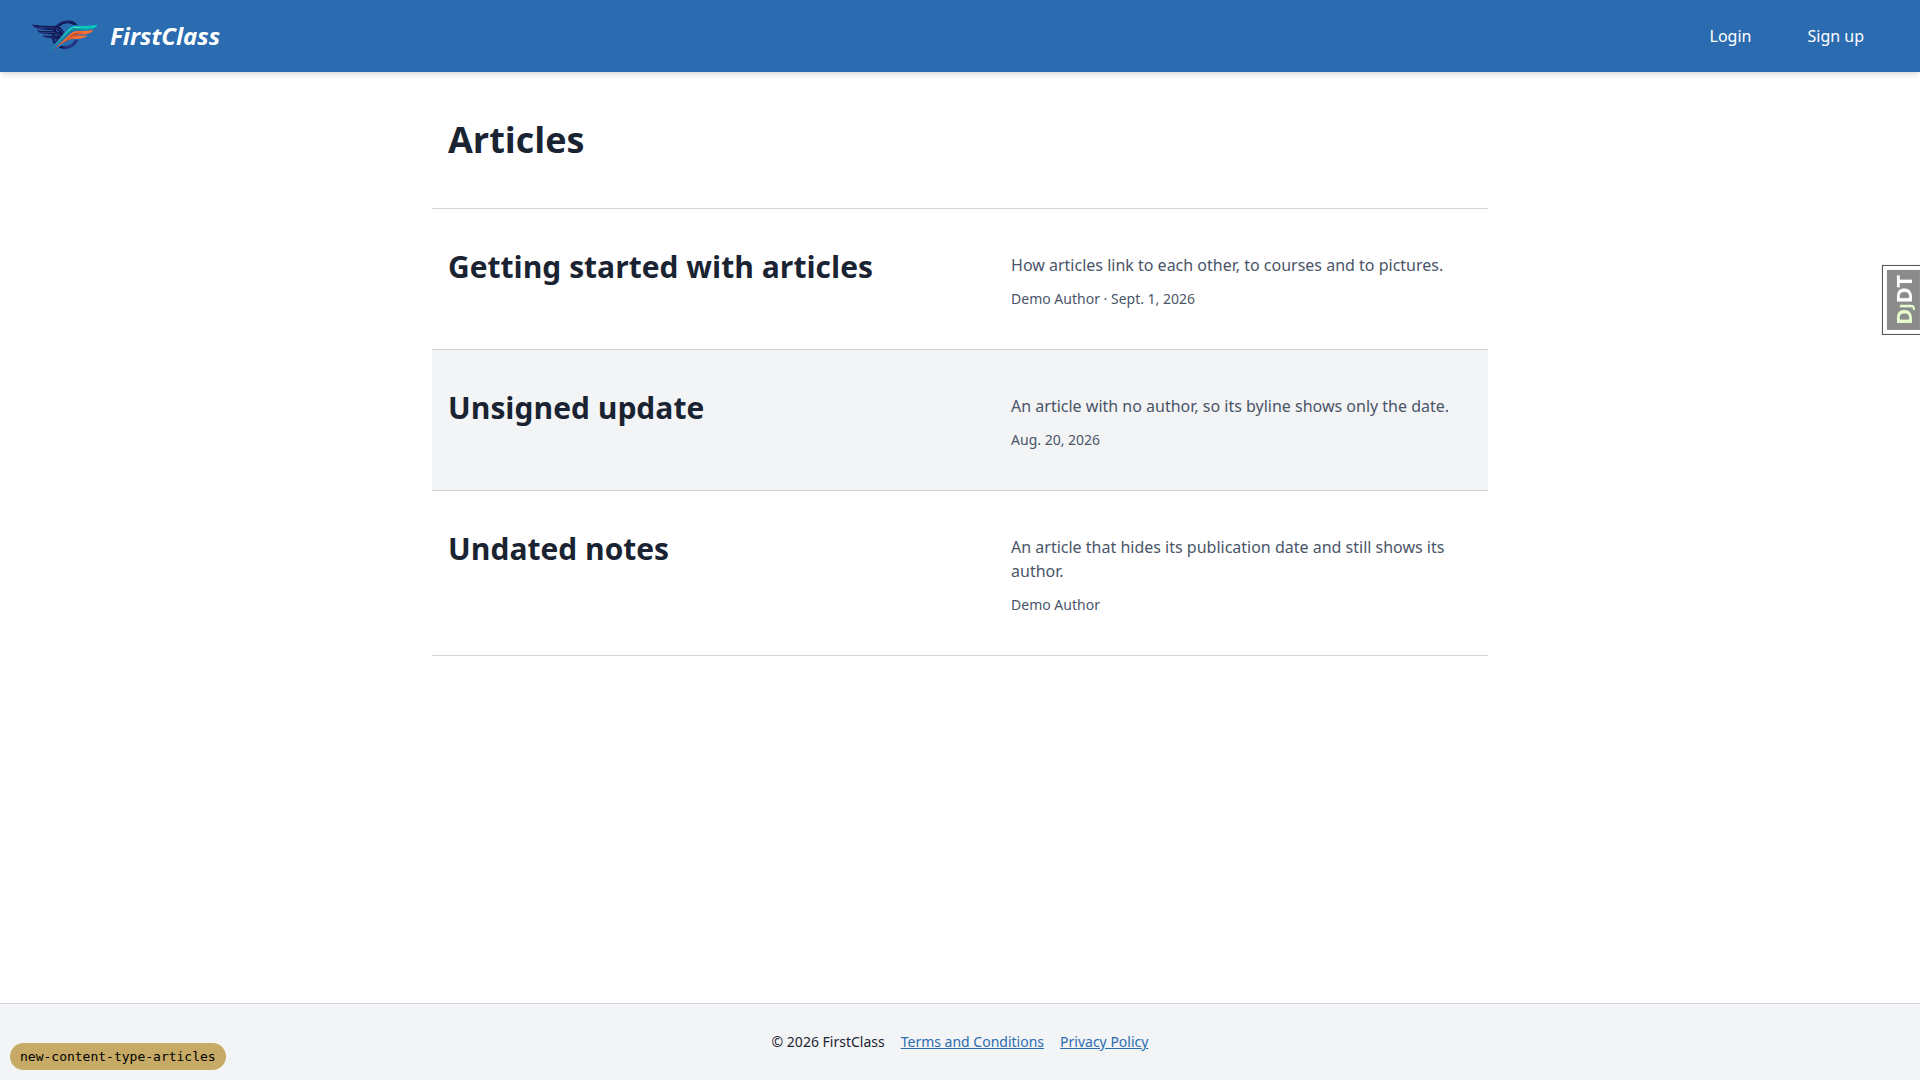
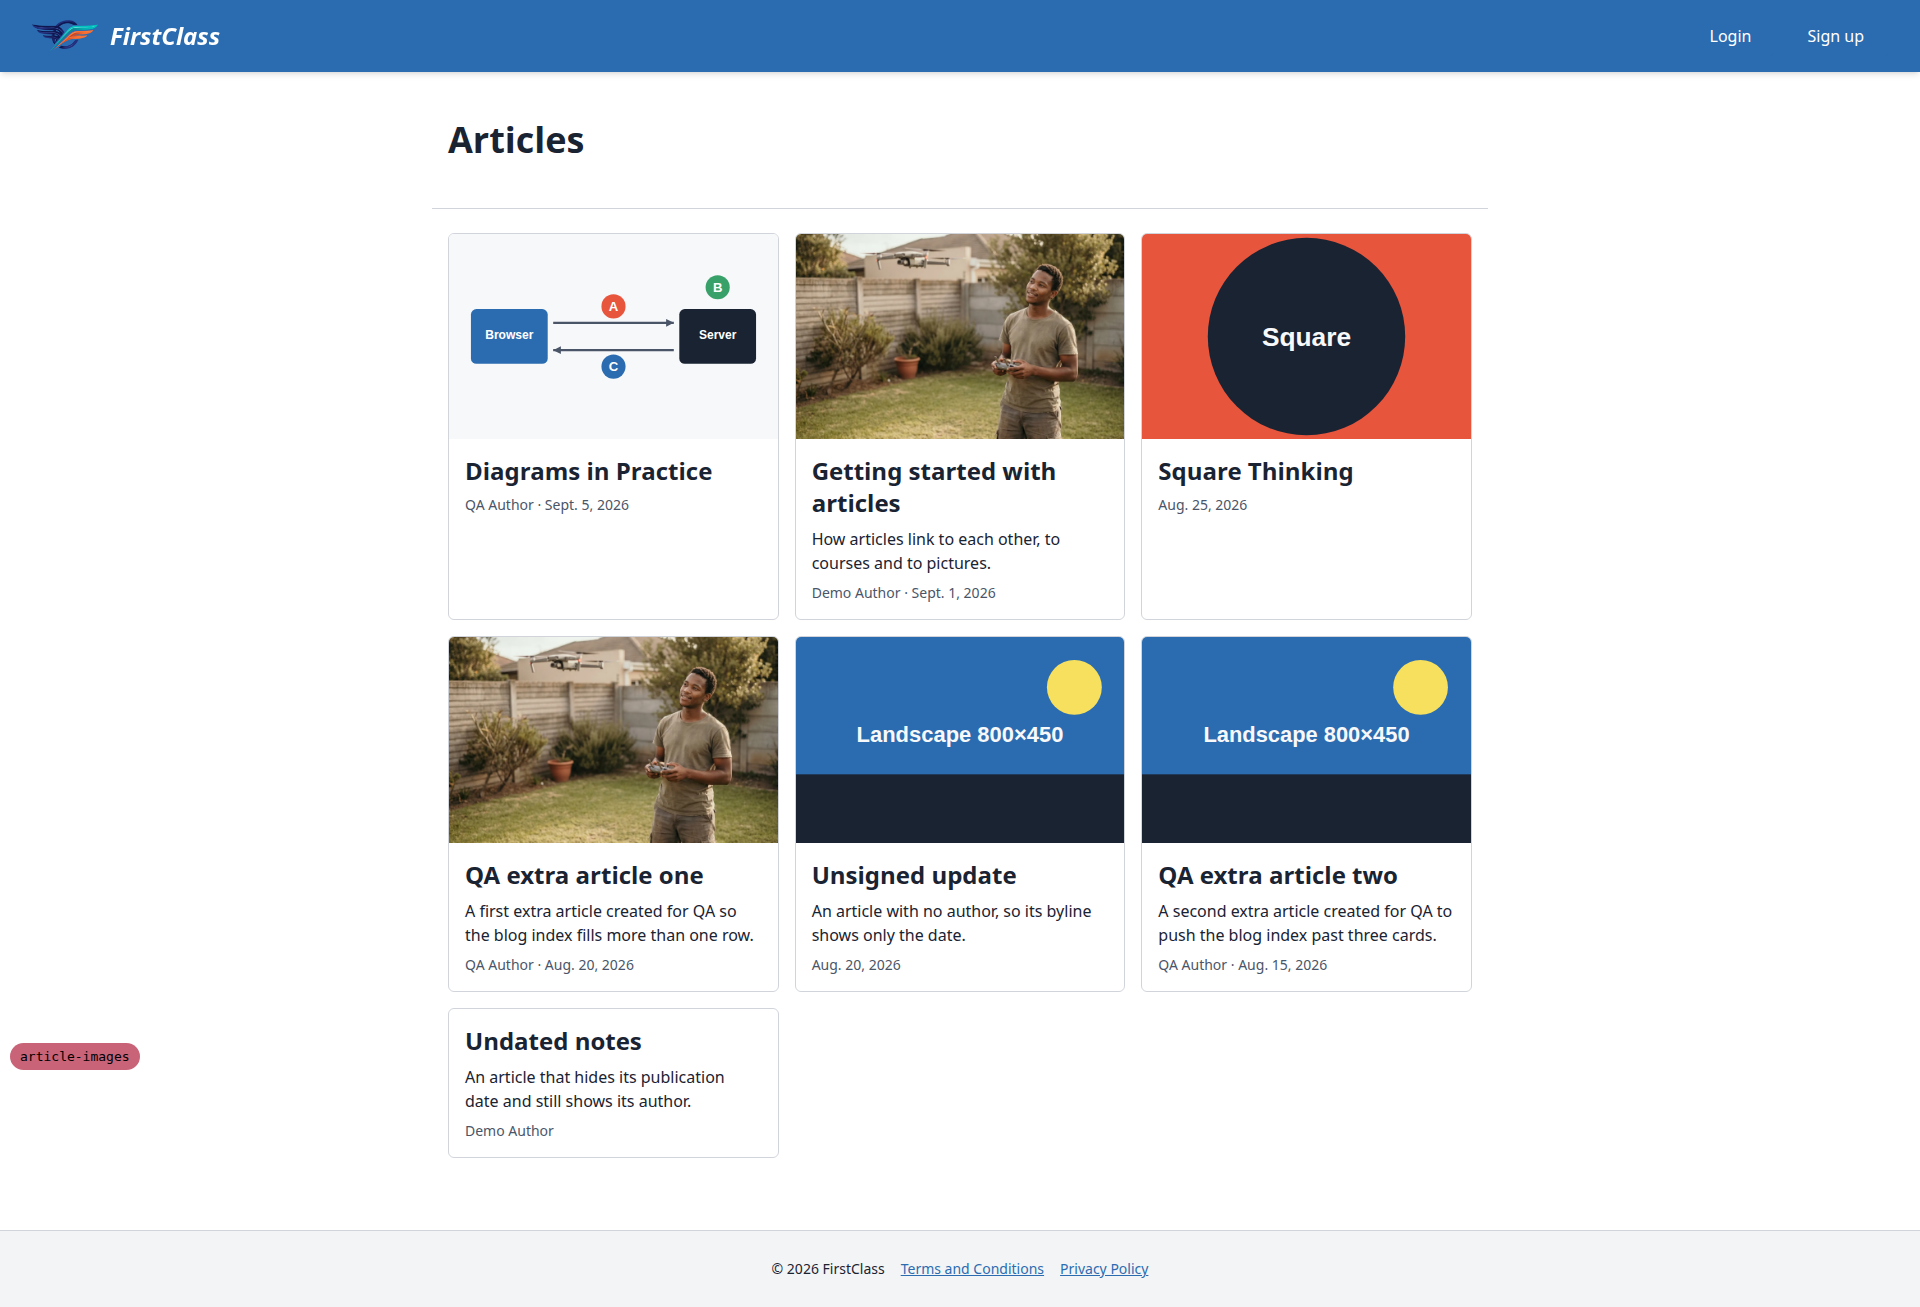
article-images: write the upgrade notes Co-Authored-By: Claude Haiku 4.5 <noreply@anthropic.com>

diff --git a/docs/product/learner-experience.md b/docs/product/learner-experience.md
@@ -1,6 +1,6 @@
 # Learner Experience
 
-_Last updated: 2026-10-01_
+_Last updated: 2026-10-04_
 
 ## Summary
 
@@ -16,7 +16,7 @@ _Last updated: 2026-10-01_
 - Hard deadlines lock uncompleted content after expiry; soft deadlines are shown to the learner but never lock anything.
 - Where a learner is studying through an organisation, that organisation's logo — or an initials monogram — and its name appear as a small, secondary mark in the course player. The site's own branding stays primary throughout.
 - Failures — a dead link, a refused permission, a form the site could not verify, too many attempts — show a branded, themed error page that carries its real HTTP status code and a route back into the app, rather than a generic framework fallback.
-- A site has a public blog: an index of its published articles and a page for each article, readable without logging in. See [Blog](#blog).
+- A site has a public blog: an index of its published articles and a page for each article, readable without logging in. An article can carry an image, shown on its page, its cards and its social-sharing preview. See [Blog](#blog).
 - A site footer with a copyright line and links to the site's terms of service and privacy policy appears on every page, shortened to a single line inside the course player. It is left off error pages and the form or quiz page a learner is answering.
 - When a site turns on notifications, a learner sees a bell in the header telling them when someone else has registered them for a course. See [Notifications](./notifications.md).
 
@@ -139,15 +139,17 @@ Prices are authored with the rest of the course metadata; see [content editing w
 
 ## Blog
 
-A site can publish articles for anyone to read, logged in or not. The blog is an index listing the site's published articles, newest first, each linking to its own article page. It lives at `/articles/` by default; an installation can change the prefix with the `BLOG_URL_PREFIX` setting (see [configuration and extension](./configuration-and-extension.md#settings-reference)).
+A site can publish articles for anyone to read, logged in or not. The blog is an index of the site's published articles, newest first, laid out as a grid of equal-height cards, each linking to its own article page. It lives at `/articles/` by default; an installation can change the prefix with the `BLOG_URL_PREFIX` setting (see [configuration and extension](./configuration-and-extension.md#settings-reference)).
 
 ![](screenshots/learner_blog_index.png)
 
 Each article page shows the title, any subtitle, and a byline with the author and the date. Either can be hidden on a single article, or for every article on the site. A hidden article returns "not found" and never appears on the index, in an article card, or in the sitemap; there is no staff preview of hidden articles.
 
+An article can carry an image. It appears as a header image on the article page and as a thumbnail on the article's cards, on the index and wherever an author places one; an article without an image keeps a text-only card. How an author adds one is covered in [content editing workflow](./content-editing-workflow.md#content-types).
+
 Authors can place article cards and course cards inside an article or any other authored content; see [content editing workflow](./content-editing-workflow.md#content-widgets).
 
-There are no article images, tags, RSS feed or pagination, and FLS adds no link to the blog in the site navigation, so an installing project adds its own.
+There are no article tags, RSS feed or pagination, and FLS adds no link to the blog in the site navigation, so an installing project adds its own.
 
 ## Deferred-login Intent Completion
 
@@ -161,7 +163,7 @@ This intent is preserved even through the new-user signup path that requires com
 
 ## Discoverability
 
-Because the catalogue and course detail pages are public, they are crawlable. Each page emits a per-page `<title>` and `<meta name="description">`. Course detail pages include `schema.org/Course` JSON-LD structured data (populated only from fields that exist in the model: title, description, difficulty, estimated duration, learning outcomes, whether the course is accessible for free, and the price as a schema.org offer where the course has one). The catalogue page includes `schema.org/ItemList` JSON-LD covering the visible courses and their detail URLs. Each article page likewise carries its own title, description and social-sharing preview.
+Because the catalogue and course detail pages are public, they are crawlable. Each page emits a per-page `<title>` and `<meta name="description">`. Course detail pages include `schema.org/Course` JSON-LD structured data (populated only from fields that exist in the model: title, description, difficulty, estimated duration, learning outcomes, whether the course is accessible for free, and the price as a schema.org offer where the course has one). The catalogue page includes `schema.org/ItemList` JSON-LD covering the visible courses and their detail URLs. Each article page likewise carries its own title, description and social-sharing preview; when the article has an image, a shared link shows it as a large preview, and otherwise the site's default image is used.
 
 The installation serves a dynamic per-site `sitemap.xml` listing the catalogue and course detail pages, and a `robots.txt` that allows crawling of the public course paths and references the current site's sitemap. The sitemap follows the same visibility rules as the catalogue: hidden courses are excluded, while coming-soon courses (whose detail pages are publicly reachable) are included. The blog index and published articles are listed too, and `robots.txt` allows crawling of the blog. All URLs in structured data and the sitemap are absolute and tenant-correct. For details of per-tenant URL isolation, see [Multi-tenancy and isolation](./multi-tenancy-and-isolation.md).
 

diff --git a/docs/product/content-editing-workflow.md b/docs/product/content-editing-workflow.md
@@ -45,7 +45,7 @@ Ten content types are available:
 
 Categories are declared in a single `course_categories.yaml` at the content repository root, one entry per category in the order they should appear; a second declaration anywhere in the repo is rejected at validation time, so a site has exactly one ordered list. Each entry gets a UUID written back into the file on its first load, like every other content type.
 
-An article can sit anywhere in the content repository, inside or outside a course folder. It is either published or `hidden`, and its public URL comes from a `slug` that defaults to its file name. It can name an `author`, and `show_date` and `show_author` override the site-wide defaults for its byline. Articles carry no images or category, and there is no scheduled publishing. See [learner experience](./learner-experience.md#blog) for the public blog pages.
+An article can sit anywhere in the content repository, inside or outside a course folder. It is either published or `hidden`, and its public URL comes from a `slug` that defaults to its file name. It can name an `author`, and `show_date` and `show_author` override the site-wide defaults for its byline. An article can carry one optional `image`, a path relative to the article file, with `image_alt` text required alongside it; the image appears on the article page, its cards and its social-sharing preview. Articles have no category, and there is no scheduled publishing. See [learner experience](./learner-experience.md#blog) for the public blog pages.
 
 Loading never deletes an article. An administrator can delete one in the admin, but while its file remains in the repository it comes back on the next load, so removing an article for good means deleting the file as well.
 
@@ -99,7 +99,7 @@ Validation parses every YAML and Markdown file against strict schemas before any
 
 `content_save` runs validation internally on every run and writes only if it passes. It scans the path, then upserts every item in a single atomic transaction, keyed on the frontmatter UUID — so re-running against unchanged files has no visible effect. A `children:` entry or an `application_form` path that does not resolve to loaded content fails the whole load rather than being silently dropped.
 
-Validation also checks the `path` of every `c-article-link`, `c-article-card` and `c-course-card`: it must point at a validated file of the right type, so a broken link or card fails before anything is written. Two articles with the same slug are rejected too.
+Validation also checks the `path` of every `c-article-link`, `c-article-card` and `c-course-card`: it must point at a validated file of the right type, so a broken link or card fails before anything is written. Two articles with the same slug are rejected too, as is an article `image` that does not point at an image file in the repository.
 
 A companion command, `danger_content_delete`, removes content. It is deliberately named to require considered invocation, and is the only route by which loaded content other than articles is deleted.
 
@@ -132,7 +132,7 @@ These widgets are available inside Markdown content:
 | `c-image-grid` | Multi-column image grid; a `c-grid` specialised for images |
 | `c-grid` | Column layout (2, 3 or 4 columns; one on phones) for any widgets, such as cards or pictures |
 | `c-article-link` | Inline link to a published article, by file path; shows the article's title unless link text is given, and falls back to plain text if the article is hidden or missing |
-| `c-article-card` | Card for a published article, by file path, in a row or `compact` variant; renders nothing if the article is hidden or missing |
+| `c-article-card` | Card for a published article, by file path, showing its image when it has one, in a row or `compact` variant; renders nothing if the article is hidden or missing |
 | `c-course-card` | Card for a course, by file path, showing its access badge and price, in a row or `compact` variant; renders nothing if the course is hidden or missing |
 | `c-table` | Accessible table wrapper |
 | `c-code-block` | Syntax-highlighted code block |

diff --git a/spec_dd/2. in progress/article-images/todo.md b/spec_dd/2. in progress/article-images/todo.md
@@ -56,12 +56,12 @@ Checklist for taking this spec from idea to merged PR. Tick items as they are co
 
 ## 10. Product documentation
 
-- [ ] (cmd) Run `/fls-dev:update_product_docs` to update docs/product/ for this feature
+- [x] (cmd) Run `/fls-dev:update_product_docs` to update docs/product/ for this feature
 - [ ] (user) Review the updated documentation
 
 ## 11. Upgrade notes
 
-- [ ] (cmd) Run `/fls-dev:update_upgrade_notes` to author the structured upgrade_notes.md for downstream projects
+- [x] (cmd) Run `/fls-dev:update_upgrade_notes` to author the structured upgrade_notes.md for downstream projects
 - [ ] (user) Review the upgrade notes
 
 ## 12. Author plugin sync
